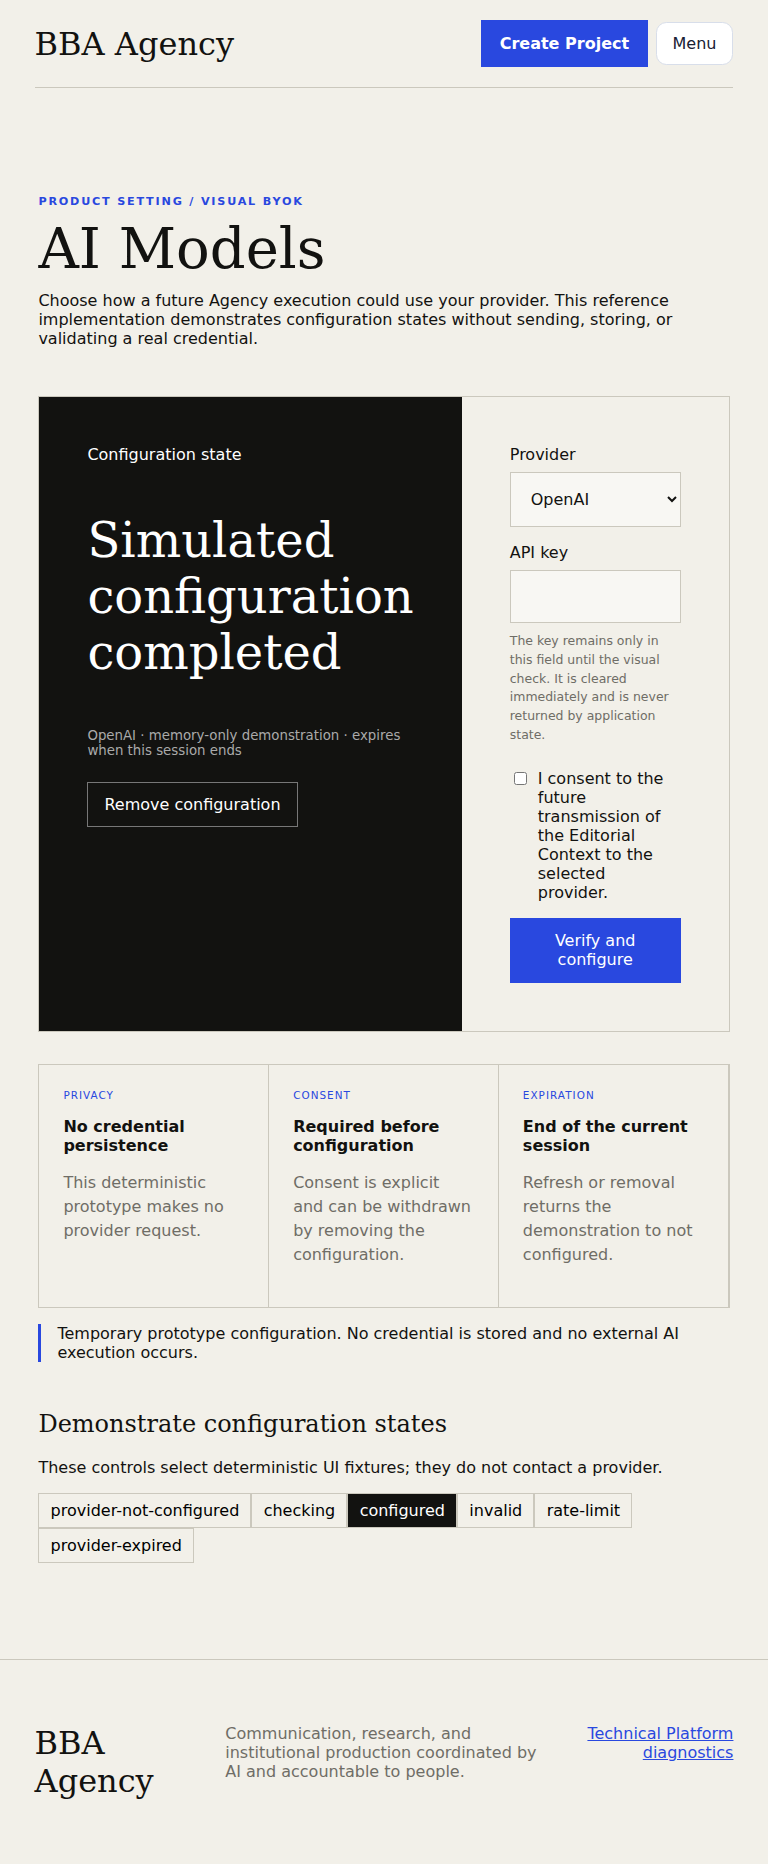
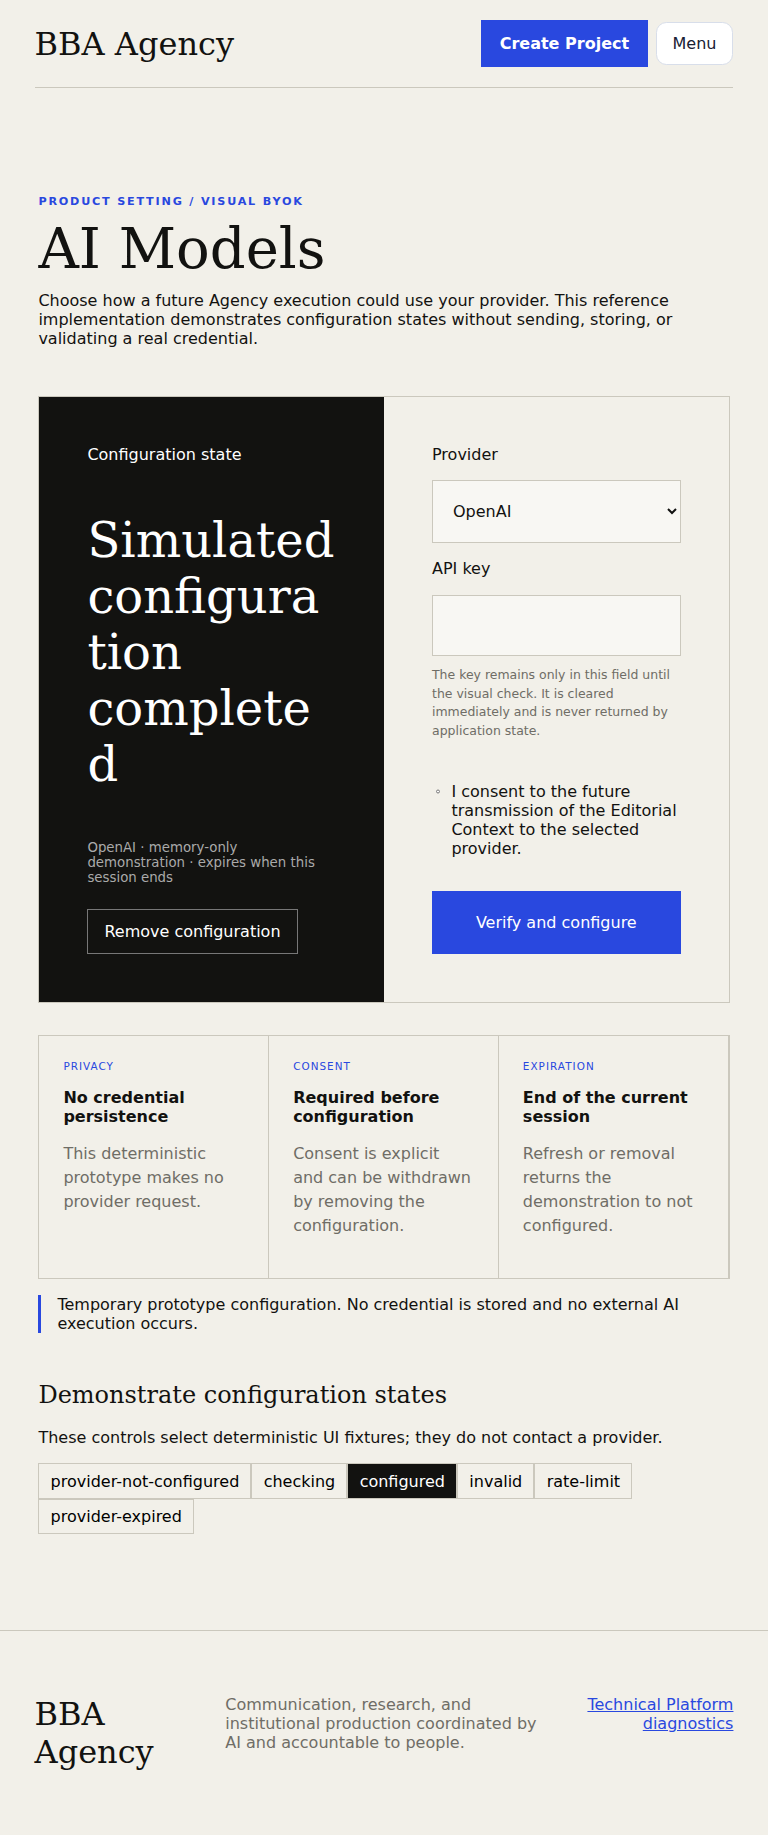
docs(agency): record visual convergence evidence

diff --git a/.rag/development/SPRINT-IMP-017-VISUAL-CONVERGENCE-REPORT.md b/.rag/development/SPRINT-IMP-017-VISUAL-CONVERGENCE-REPORT.md
@@ -15,7 +15,7 @@ Completed so far:
 - 47d4c5b aligns AI Models / visual BYOK settings with privacy, consent, expiration, removal, and deterministic configuration states.
 - static/public/assets/Axodus_logo.svg was repaired from a committed conflict-marker state into one valid SVG document.
 
-The sprint is not complete yet. Browser evidence exists but the final mobile overflow gate has not been rerun successfully after the last CSS correction because the local preview server requires privileged port binding in this environment.
+The sprint is not complete yet. Browser evidence for visual convergence now passes across the required viewports, including the no-horizontal-overflow gate. Full sprint closure remains pending because several workspace-wide gates are still blocked by dependency/layout issues described below.
 
 ## Implemented surfaces
 
@@ -27,11 +27,11 @@ The sprint is not complete yet. Browser evidence exists but the final mobile ove
 | Project list | Agency engagement list preserved | Existing E2E and preliminary screenshots |
 | Project wizard | Seven-step creation flow preserved | Existing E2E and preliminary screenshots |
 | Workspace Context / Editorial Core | Human checkpoint preserved | Existing E2E and preliminary screenshots |
-| Strategy | Editorial sequence preserved; mobile wrapping correction added | Build-valid, final browser rerun pending |
+| Strategy | Editorial sequence preserved; mobile wrapping correction added | Visual no-overflow PASS |
 | Content | Blog, LinkedIn, Instagram, copy, traceability, version comparison preserved | Existing E2E and preliminary screenshots |
 | Review | Findings, blocking approval, revision impact, package approval preserved | Existing E2E and preliminary screenshots |
 | Delivery | Export and no-publication disclaimer preserved | Existing E2E and preliminary screenshots |
-| AI settings | Product setting with provider state, privacy, consent, expiration, removal | Build-valid, final browser rerun pending |
+| AI settings | Product setting with provider state, privacy, consent, expiration, removal | Visual no-overflow PASS |
 | Diagnostics | Secondary technical area preserved outside primary navigation | Source audit |
 
 ## Functional preservation
@@ -48,11 +48,11 @@ The visual evidence harness apps/bba-web/e2e/visual-convergence.spec.ts captures
 
 It also asserts no horizontal overflow on every captured surface.
 
-The first full capture run produced 52 screenshots under .rag/evidence/SPRINT-IMP-017/desktop/ and .rag/evidence/SPRINT-IMP-017/mobile/. During hardening, the new overflow assertion revealed Strategy overflow at 390 px and AI settings overflow at 390 px.
+The final capture run produced and validated 52 screenshots under .rag/evidence/SPRINT-IMP-017/desktop/ and .rag/evidence/SPRINT-IMP-017/mobile/. During hardening, the new overflow assertion revealed Strategy overflow at 390 px and AI settings overflow at 390 px.
 
-Source fixes have been applied for both: .strategy-sequence now wraps and becomes vertical under 700 px; .ai-settings and scenario controls now allow shrinking and word breaking.
+Source fixes have been applied and verified for both: .strategy-sequence now wraps and becomes vertical under 700 px; .ai-settings and scenario controls now allow shrinking and word breaking.
 
-Final screenshot acceptance remains pending until the local preview/browser runner can be restarted.
+Final visual screenshot acceptance: PASS for 1440 x 900, 1280 x 800, 768 x 1024, and 390 x 844.
 
 ## Validation performed
 
@@ -62,7 +62,7 @@ Passed:
 - timeout 120s node_modules/.bin/vite build
 - desktop E2E: 3 passed
 - mobile E2E: 3 passed
-- visual capture before final overflow fixes: 4 passed, 52 screenshots produced
+- visual convergence harness after final overflow fixes: 4 passed, 52 screenshots produced and validated
 - python XML parse for static/public/assets/Axodus_logo.svg
 - git grep conflict-marker scan after SVG repair
 
@@ -71,36 +71,35 @@ Blocked or incomplete:
 - pnpm --filter @bba/bba-web test, pnpm --filter @bba/bba-web typecheck, and pnpm agency:check-language attempted dependency reconciliation and aborted with ERR_PNPM_ABORTED_REMOVE_MODULES_DIR_NO_TTY.
 - node apps/bba-web/tools/check-boundaries.mjs found a pre-existing forbidden browser dependency in src/tools/mcp-server.ts, outside the changed SPRINT-IMP-017 files.
 - node apps/bba-web/tools/check-product-acceptance.mjs failed because it looked for /mnt/d/rede/github/contracts/openapi/v1/operation-inventory.json, which is absent in the current workspace layout.
-- visual-convergence mobile rerun after final CSS correction could not be completed because vite preview port binding requires elevated execution in this environment, and the approval path is currently unavailable.
+- functional E2E rerun after the final CSS correction timed out waiting for the Playwright config webServer, even though the preview server used by the visual harness was still running. Earlier desktop and mobile functional E2E passed on this branch before the final CSS-only overflow correction.
 
 ## Quantitative convergence matrix
 
 | Surface | Target | Result |
 | --- | --- | --- |
-| Public Home | Visually aligned | IN_PROGRESS |
-| Authenticated Home | Same design family | IN_PROGRESS |
-| Services | Aligned | IN_PROGRESS |
-| Publisher page | Aligned | IN_PROGRESS |
-| Project list | Adapted to design system | IN_PROGRESS |
-| Wizard | Aligned | IN_PROGRESS |
-| Workspace | Aligned | IN_PROGRESS |
-| Editorial Core | Aligned | IN_PROGRESS |
-| Strategy | Aligned | IN_PROGRESS |
-| Content | Aligned | IN_PROGRESS |
-| Review | Aligned | IN_PROGRESS |
-| Delivery | Aligned | IN_PROGRESS |
-| AI settings | Aligned | IN_PROGRESS |
-| Mobile | Aligned | IN_PROGRESS |
+| Public Home | Visually aligned | PASS_VISUAL |
+| Authenticated Home | Same design family | PASS_VISUAL |
+| Services | Aligned | PASS_VISUAL |
+| Publisher page | Aligned | PASS_VISUAL |
+| Project list | Adapted to design system | PASS_VISUAL |
+| Wizard | Aligned | PASS_VISUAL |
+| Workspace | Aligned | PASS_VISUAL |
+| Editorial Core | Aligned | PASS_VISUAL |
+| Strategy | Aligned | PASS_VISUAL |
+| Content | Aligned | PASS_VISUAL |
+| Review | Aligned | PASS_VISUAL |
+| Delivery | Aligned | PASS_VISUAL |
+| AI settings | Aligned | PASS_VISUAL |
+| Mobile | Aligned | PASS_VISUAL |
 
-No PASS is assigned yet because completion requires fresh after screenshots and successful no-overflow checks after the latest corrections.
+These PASS_VISUAL results do not close the sprint by themselves. Full PASS still requires all functional, architecture, language, build, bundle, and workspace checks to be current and green.
 
 ## Known gaps
 
-1. Re-run visual-convergence.spec.ts after the latest CSS changes with a live preview server.
-2. Capture or refresh final screenshots after the no-overflow assertion passes.
-3. Run the full package checks after dependency reconciliation no longer requires interactive node_modules purging.
-4. Resolve or explicitly isolate the pre-existing architecture and product-acceptance gate path issues.
-5. Update this report from IN_PROGRESS to PASS/PASS_WITH_GAPS/FAIL only after evidence proves every acceptance criterion.
+1. Re-run the functional E2E suite through the standard Playwright config after the webServer timeout is resolved.
+2. Run the full package checks after dependency reconciliation no longer requires interactive node_modules purging.
+3. Resolve or explicitly isolate the pre-existing architecture and product-acceptance gate path issues.
+4. Update this report from IN_PROGRESS to PASS/PASS_WITH_GAPS/FAIL only after evidence proves every acceptance criterion.
 
 ## Deployment status
 

diff --git a/.rag/evidence/SPRINT-IMP-017/README.md b/.rag/evidence/SPRINT-IMP-017/README.md
@@ -23,9 +23,9 @@ These files are referenced rather than copied to avoid duplicating governed bina
 
 ## Current screenshot evidence
 
-An automated capture run produced 52 preliminary screenshots across 1440 x 900, 1280 x 800, 768 x 1024, and 390 x 844. These are useful comparison artifacts but are not final acceptance evidence yet because a later no-horizontal-overflow assertion found mobile issues that were fixed in source afterward.
+An automated capture run produced 52 screenshots across 1440 x 900, 1280 x 800, 768 x 1024, and 390 x 844. The final run passed with the no-horizontal-overflow assertion enabled for every captured surface.
 
-Final acceptance requires re-running apps/bba-web/e2e/visual-convergence.spec.ts after the latest CSS corrections.
+Visual acceptance for the captured surfaces is complete. Full sprint acceptance still requires the functional and workspace-wide gates listed in the development report.
 
 ## Required final `after` evidence
 
@@ -43,7 +43,7 @@ Stable screenshots belong in `desktop/`, `mobile/`, or `after/`; computed compar
 - Source audit: `../../design/SPRINT-IMP-017-STATIC-PROTOTYPE-CONVERGENCE-AUDIT.md`
 - Architecture mapping: `../../architecture/SPRINT-IMP-017-DESIGN-SYSTEM-AND-COMPONENT-MAPPING.md`
 - Baseline functional tests: desktop and mobile E2E passed for golden, revision, and failure paths; full pnpm check remains pending dependency reconciliation.
-- Fresh browser screenshots: preliminary 52-file set exists; final no-overflow recapture pending.
+- Fresh browser screenshots: final 52-file set exists and passed the no-overflow visual harness.
 - Accessibility evidence: pending.
 - Language and architecture gates: pending.
 - Build and bundle: pending.
